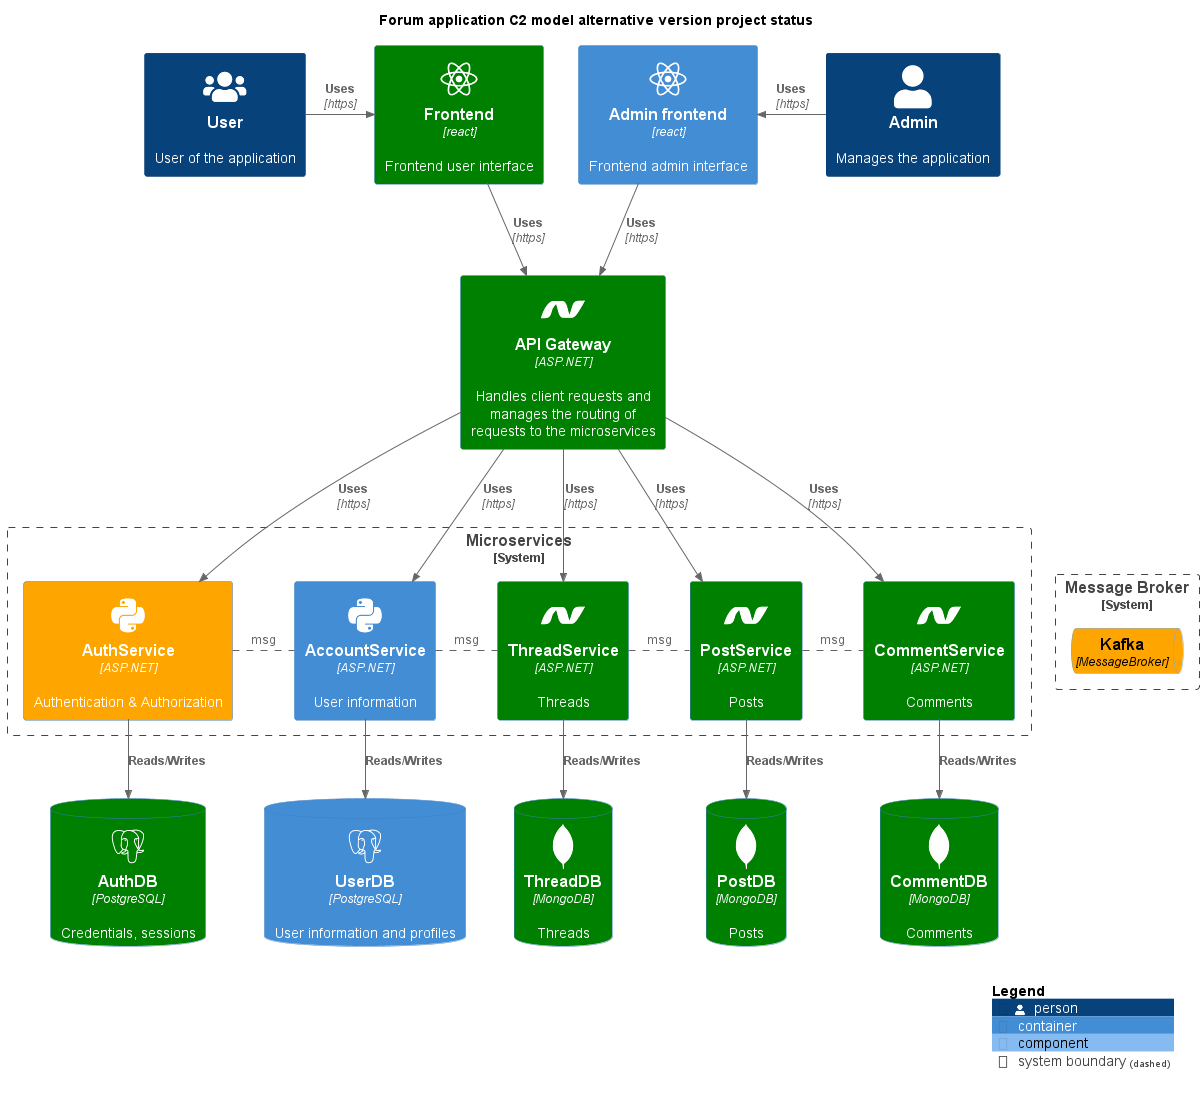
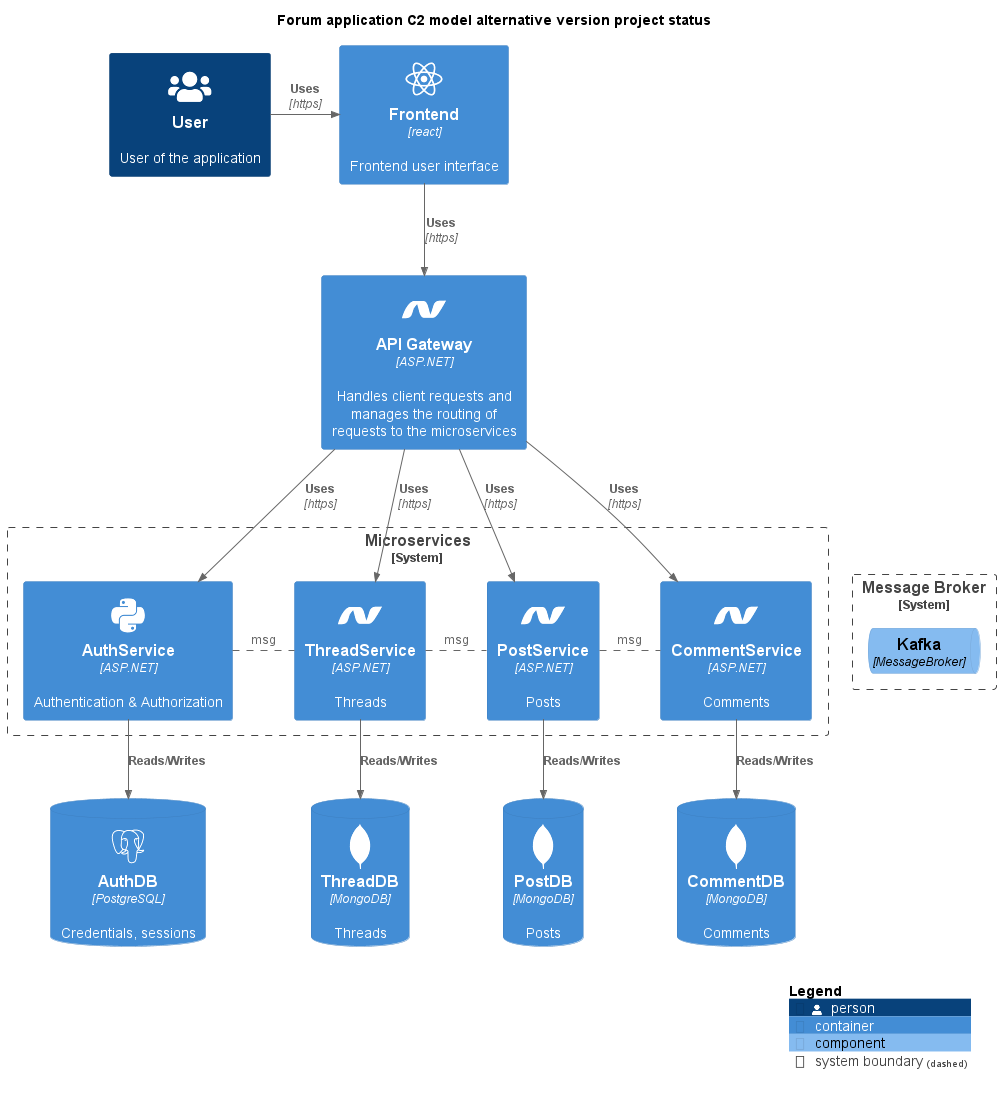
Project status diagram update

diff --git a/Architecture/Architecture.md b/Architecture/Architecture.md
@@ -8,7 +8,7 @@ In the image below you can find an overview of the status of my project.
 
 ![Project status C2 model](./C4_Models/Architecture_C2_project_status.png "Project status C2 model")
 
-In this image you can see that the services have different colors. Blue means not yet started on that service, Green means finished, Orange means mostly finished and Yellow means that the basic/initial version is working.
+All of the services in this images have been finished and are integrated with each other. At first I used colors to highlight the status of the services (Green means finished, Orange means mostly finished and Yellow means that the basic/initial version is working). Since everything that I wanted to make in my project is finished I decided to remove the colors entirely.
 
 ## C1: Context
 
